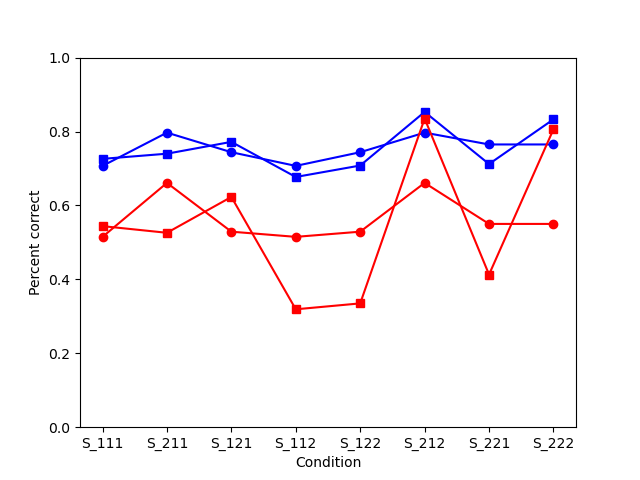
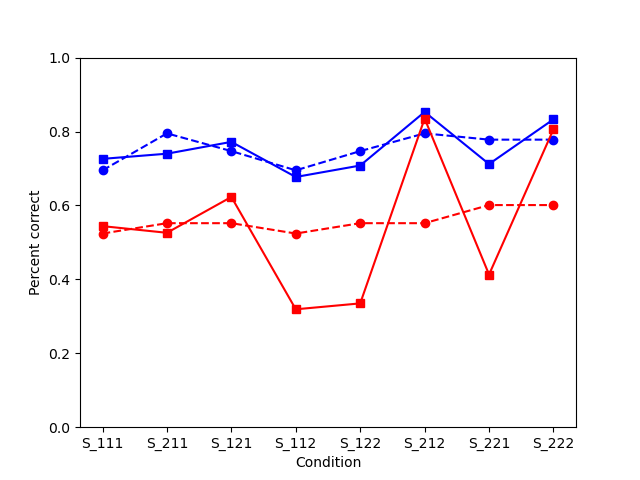
vmr

diff --git a/DMS_AccStim/vmr.py b/DMS_AccStim/vmr.py
@@ -557,7 +557,7 @@ print("#### Simulated ####")
 dps_1to8_sim = pred_and_eval_given_bestParaSet.get("p_correct_sim")[:8]
 print(dps_1to8_sim)
 plt.plot(dps_1to8_emp,'bs-')
-plt.plot(dps_1to8_sim,'bo-')
+plt.plot(dps_1to8_sim,'bo--')
 print("#### Empirical / TNS=high ####")
 print(mainCondiNames[8:])
 dps_9to16_emp = pred_and_eval_given_bestParaSet.get("p_correct_emp")[8:]
@@ -567,7 +567,7 @@ dps_9to16_sim = pred_and_eval_given_bestParaSet.get("p_correct_sim")[8:]
 print(dps_9to16_sim)
 print()
 plt.plot(dps_9to16_emp,'rs-')
-plt.plot(dps_9to16_sim,'ro-')
+plt.plot(dps_9to16_sim,'ro--')
 plt.ylim(0,1)
 plt.xticks([0,1,2,3,4,5,6,7],
 	["S_111","S_211","S_121","S_112","S_122","S_212","S_221","S_222"])
